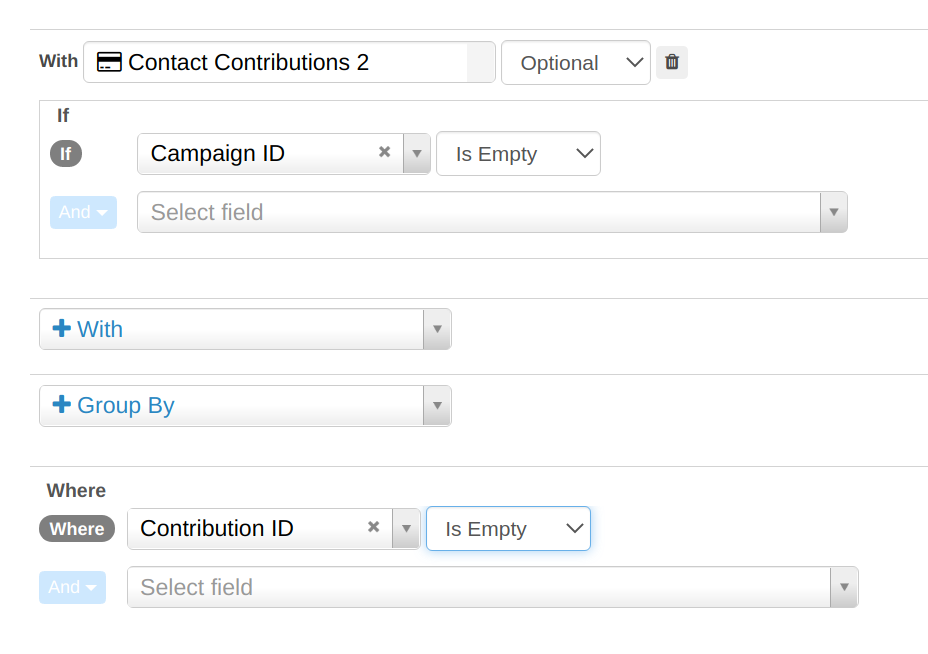
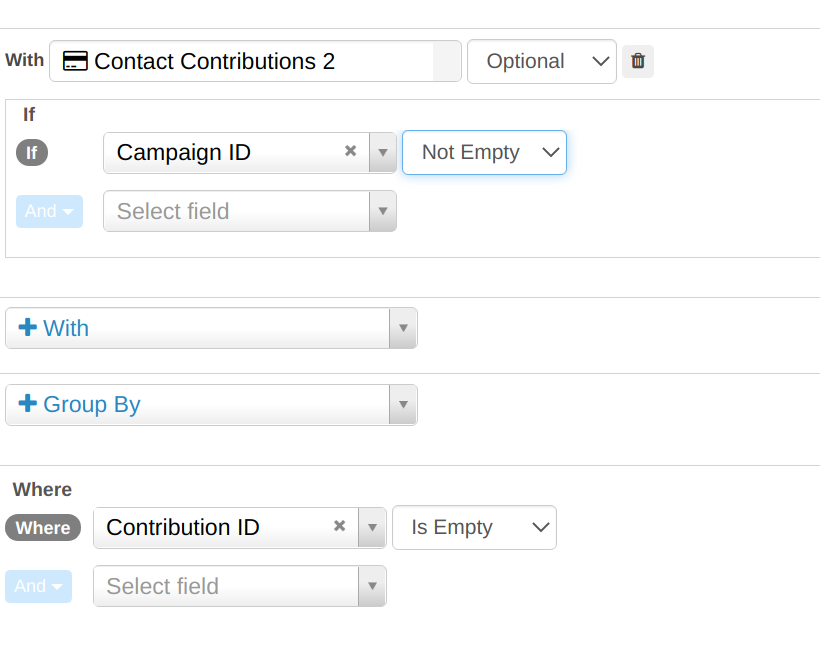
Fix to actually work

diff --git a/docs/the-user-interface/search-kit.md b/docs/the-user-interface/search-kit.md
@@ -87,8 +87,11 @@ In sql language these 'with' entities are joins. To add in a second
 set of contributions we choose contributions in the 'with' box
 again but scroll down to pick 'Contributions 2'. In this case it is
 optional (in fact we want to exclude them) and we filter on
-'Campaign ID' is empty. When adding this field be very careful to select
-it from the second contribution table.
+'Campaign ID' is NOT empty. When adding this field be very careful to select
+it from the second contribution table. We also need to select the
+opposite criteria to what we want to know about (ie we want to know about
+those don't have campaign contributions so we we say with 
+contributions with campaigns and then filter them out).
 
 To actually exclude them we ALSO need to add 
 a where clause of 'contribution id is empty'. As with the previous 
